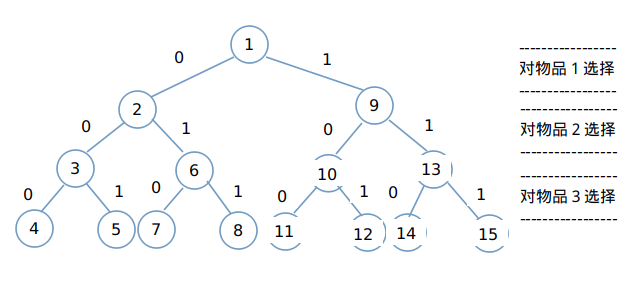
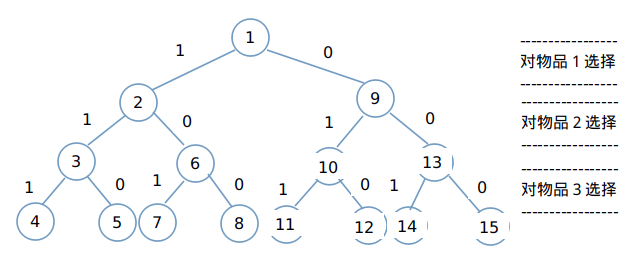
添加图着色问题的回溯法实现

diff --git a/BackTrack/src/GraphColor.java b/BackTrack/src/GraphColor.java
@@ -1,0 +1,96 @@
+/**
+Desription:<br>
+图着色问题实现类:<br>
+Time 2017/03/22
+@author Mrzhou
+@version 1.8.0_112
+*/
+/*
+问题描述：
+给定无向连通图G=(V,E)，求最小的整数m，用m种颜色对G中的顶点着色，
+使得任意两个相邻顶点着色不同
+
+输入：n个顶点的图G=(V,E)，m种颜色
+输出：n个顶点的涂色情况color[n]
+*/
+import java.util.Scanner;
+public class GraphColor{
+  public static void main(String[] args) {
+    Scanner in = new Scanner(System.in);
+    System.out.print("输入图的结点数：");
+    int n = in.nextInt();
+    System.out.print("输入图结点之间的关系，0表示不相邻，1表示相邻：");
+    int[][] graph = new int[n][n];
+    //初始化图
+    for (int i = 0;i < n ;i++ ) {
+      for (int j = 0;j < n ;j++ ) {
+        graph[i][j] = in.nextInt();
+      }
+    }
+    System.out.print("输入限制图多少种颜色:");
+    int m = in.nextInt();
+    int[] result = graphColor(graph,n,m);//获取图着色结果
+    if(result == null) System.out.println(m + "种颜色无法给当前图上色!!!");
+    else{
+      for (int i = 0;i < n ;i++ ) {
+        System.out.print(result[i] + " ");
+      }
+      System.out.println();
+    }
+  }
+
+  /**
+  图着色：<br>
+
+  @param graph 待着色图
+  @param n 图的结点数
+  @param m 限制需要涂的颜色种数
+  @return 满足时返回图着色的结果，否则返回空
+  */
+  public static int[] graphColor(int[][] graph,int n,int m){
+    int[] color = initColor(n);//初始化数组
+    int index = 0;
+    while(index >= 0){
+      color[index] += 1;//填色
+      while(color[index] <= m){
+        //检验当前所涂颜色是否符合
+        if(check(graph,color,index)) break;//符合
+        else color[index] += 1;//考察下一种颜色
+      }
+      if(color[index] <=m && index == n-1) return color;
+      if(color[index] > m) color[index--] = 0;//回溯
+      else index++;//填下一个结点
+    }
+    return null;
+  }
+
+  /**
+  检测当前考察结点的颜色是否符合要求：<br>
+
+  @param graph 图
+  @param color 图的每个结点的颜色组成的数组
+  @param index 索引，用于考察当前结点的颜色是否符合
+  @return 符合或者不符合
+  */
+  public static boolean check(int[][] graph,int[] color,int index){
+    for (int i = 0;i < index ;i++ ) {
+      //判断当前结点所图的颜色是否与前面重复
+      if(graph[index][i] == 1 && color[i] == color[index]) return false;
+    }
+    return true;
+  }
+
+  /**
+  初始化颜色数组：<br>
+
+  @param n 结点的个数
+  @return 初始化后的数组
+  */
+  public static int[] initColor(int n){
+    int[] color = new int[n];
+    for (int i = 0;i < n ;i++ ) {
+      color[i] = 0;
+    }
+    return color;
+  }
+}

diff --git a/back-track.md b/back-track.md
@@ -7,7 +7,7 @@
 #### 1.1问题的解空间树
 
 - 复杂问题常常有很多可能的解，这些可能解构成了问题的解空间(solution space)，并且可能解的表示隐含了解空间及其大小。
-- 例如，对与n=3的0/1背包问题，其解空间树如下图所示，树中第i层表与第i+1层(1<=i<=n)结点之间的边上给出对物品i的选择结果，左子树表示物品没有被装入背包，又子树表示物品装入背包。例如结点8代表一个可能解(0,1,1)
+- 例如，对与n=3的0/1背包问题，其解空间树如下图所示，树中第i层表与第i+1层(1<=i<=n)结点之间的边上给出对物品i的选择结果，左子树表示物品被装入背包，右子树表示物品没有被装入背包。例如结点8代表一个可能解(1,0,0)
 ![0/1背包解空间树及其含义](images/SSP_tree.png)
 
 #### 1.2回溯法的设计思想
@@ -15,5 +15,11 @@
 - 回溯法从解空间树的根结点出发，按照深度优先策略搜索满足约束条件的解。在搜索至树中某结点时，先判断该结点对应的部分是否满足约束条件，也就是判断该结点是否包含问题的(最优)解，如果肯定不包含，则跳过以该结点为根的子树，即所谓剪枝(pruning);否则，进入以该结点为根的子树，继续按照深度优先策略进行搜索。
 
 ### 2.常见问题
+
+#### 2.1图问题
+
+- [图着色问题](https://github.com/Mr-Joke/Algorithm/blob/master/BackTrack/src/GraphColor.java)
+
+#### 2.2其他问题
 
 - [素环数](https://github.com/Mr-Joke/Algorithm/blob/master/BackTrack/src/PrimeCircle.java)
